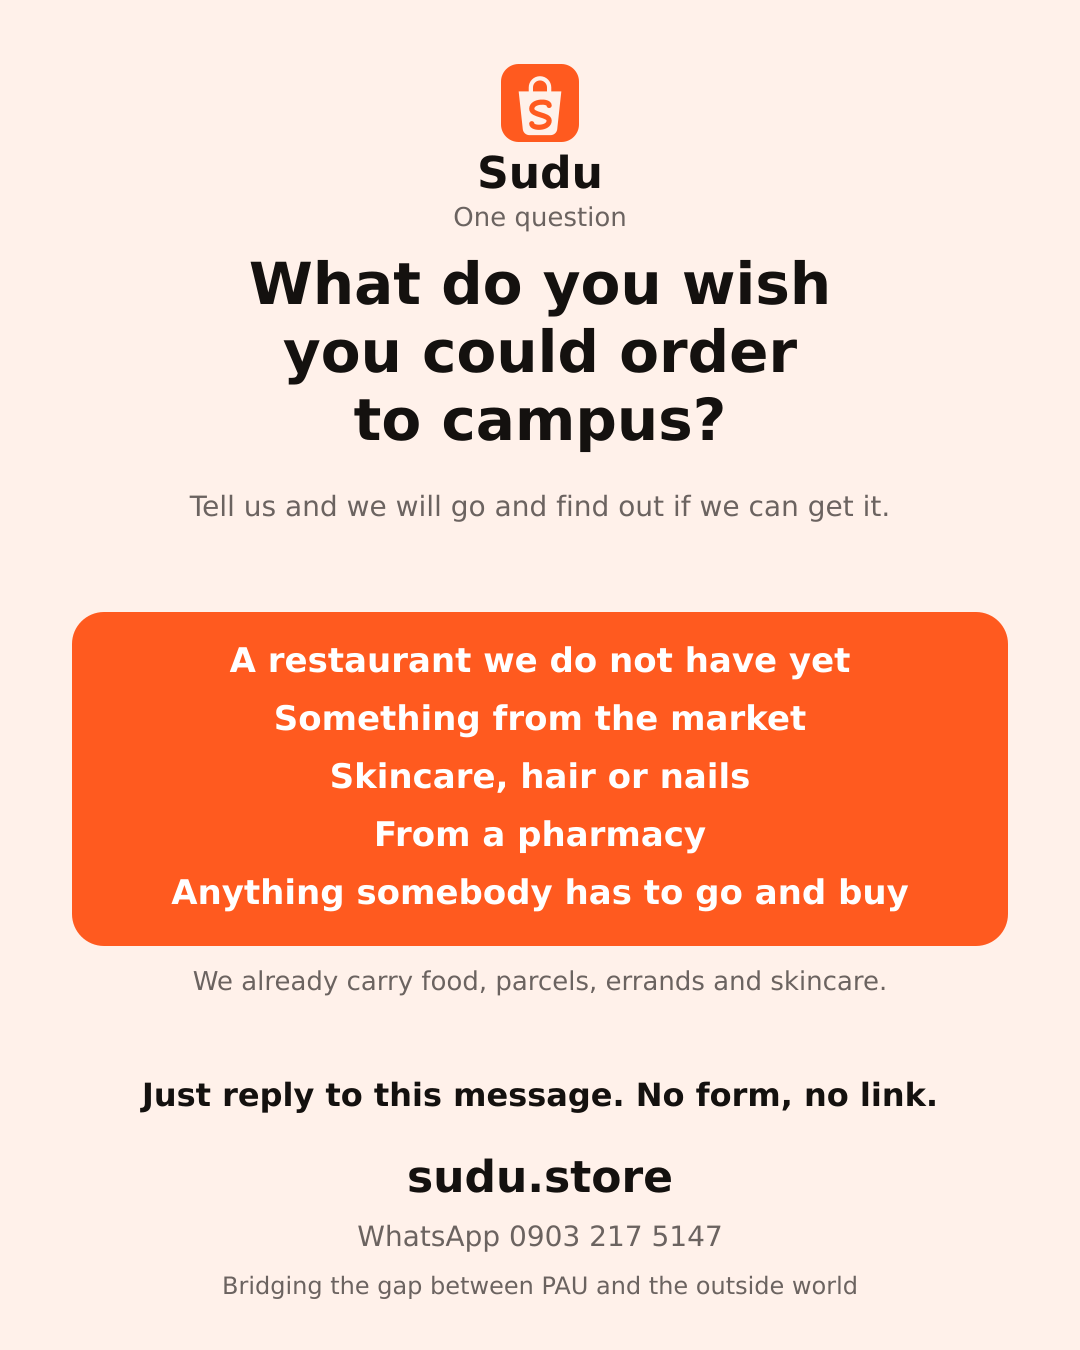
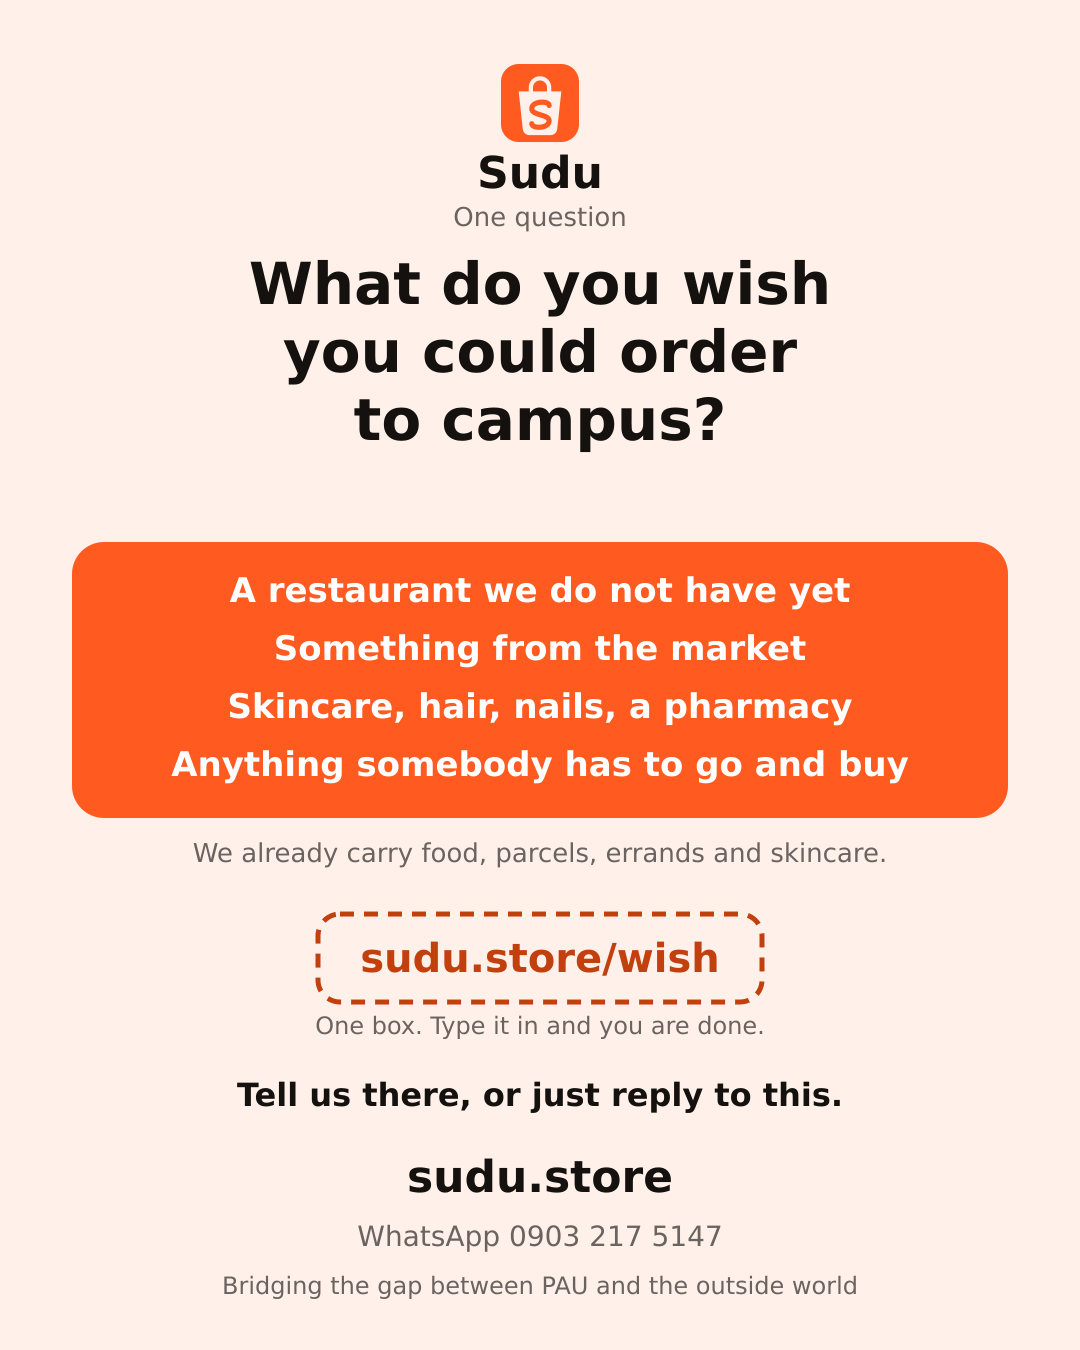
One box: what do you wish you could order?
There is already a page for asking us to go and find something, and it
wants a budget, a name, a number, a block and a note, because by then
somebody has decided to buy and we have to be able to quote them. This is
the other end of that: a question put to somebody who has decided
nothing, off a status they scrolled past. Every field after the first is
a reason to close the tab, so there is one, and the number under it says
plainly it can be left empty.

The card carries the address now rather than "reply to this". A reply
works in a chat and not on a status: a status reply goes to whoever
posted it, so with promoters carrying this every answer would land in
twelve inboxes and none of them ours. It still says reply as well, for
the ones we send ourselves.

Admin keeps them whole rather than tidying them into categories nobody
agreed on, because the number worth reading is how many said the same
thing. Where it came from is taken from the cookie, so a promoter's
status is a channel we can count.

Claude-Session: https://claude.ai/code/session_01A62TtZ3majrmppVL3Tnmwq

Changed region(s): [[0.0611, 0.3733, 0.9472, 0.84]]

diff --git a/app/wish/page.tsx b/app/wish/page.tsx
@@ -1,0 +1,118 @@
+import type { Metadata } from "next";
+import Link from "next/link";
+import { safeSettings, whatsappLink } from "@/lib/settings";
+import { wishAction } from "./actions";
+
+export const dynamic = "force-dynamic";
+
+export const metadata: Metadata = {
+  title: "What do you wish you could order?",
+  description:
+    "Tell us what you wish you could order to Pan-Atlantic University and we will go and find out if we can get it.",
+  alternates: { canonical: "/wish" },
+};
+
+/**
+ * One box.
+ *
+ * The custom order page asks for a budget, a name, a number, a block and a
+ * note, because by then somebody has decided to buy and we have to be able
+ * to quote them. This is the other end of that: a question put to somebody
+ * who has decided nothing, off a status they scrolled past. Every field
+ * after the first is a reason to close the tab, so there is one, and the
+ * number under it says plainly that it can be left empty.
+ */
+export default async function WishPage({
+  searchParams,
+}: {
+  searchParams: Promise<{ thanks?: string; problem?: string }>;
+}) {
+  const { thanks, problem } = await searchParams;
+  const settings = await safeSettings();
+
+  if (thanks) {
+    const again = whatsappLink(
+      settings.whatsapp_number,
+      "Hi Sudu, one more thing I wish I could order:"
+    );
+    return (
+      <div className="mx-auto max-w-md space-y-4 py-10 text-center">
+        <p className="text-5xl">🙌</p>
+        <h1 className="text-2xl font-extrabold tracking-tight">Got it, thank you.</h1>
+        <p className="text-ink/75">
+          If enough people ask for the same thing we go and get it, and it
+          turns up on the shop.
+        </p>
+        <div className="space-y-3 pt-2">
+          <Link href="/wish" className="btn-quiet block w-full">
+            Add another one
+          </Link>
+          <Link href="/" className="btn-primary block w-full">
+            See what we already carry
+          </Link>
+          {again ? (
+            <a href={again} className="block text-sm font-semibold text-brand">
+              Or tell us on WhatsApp
+            </a>
+          ) : null}
+        </div>
+      </div>
+    );
+  }
+
+  return (
+    <div className="mx-auto max-w-md space-y-4 py-8">
+      <header className="space-y-2">
+        <h1 className="text-2xl font-extrabold tracking-tight">
+          What do you wish you could order to campus?
+        </h1>
+        <p className="text-ink/75">
+          Anything. A restaurant we do not have yet, something from the
+          market, skincare, a pharmacy run, or a thing somebody has to go out
+          and buy. Tell us and we will find out if we can get it.
+        </p>
+      </header>
+
+      {problem ? (
+        <p className="card border-brand/30 bg-brand/5 font-semibold text-brand">{problem}</p>
+      ) : null}
+
+      <form action={wishAction} className="card space-y-4">
+        <div>
+          <label className="label" htmlFor="wanted">
+            What is it?
+          </label>
+          <textarea
+            id="wanted"
+            name="wanted"
+            rows={3}
+            required
+            autoFocus
+            className="field"
+            placeholder="Shawarma from Sangotedo at night"
+          />
+        </div>
+
+        <div>
+          <label className="label" htmlFor="phone">
+            Your number, if you want telling when we get it
+          </label>
+          <input
+            id="phone"
+            name="phone"
+            inputMode="tel"
+            className="field"
+            placeholder="Optional"
+          />
+        </div>
+
+        <button type="submit" className="btn-primary w-full">
+          Send it
+        </button>
+        <p className="text-center text-xs text-muted">
+          No account, nothing to sign up for. One box and you are done.
+        </p>
+      </form>
+    </div>
+  );
+}

diff --git a/app/admin/wishes/page.tsx b/app/admin/wishes/page.tsx
@@ -1,0 +1,98 @@
+import PageHeader from "@/components/admin/PageHeader";
+import Stat from "@/components/admin/Stat";
+import ConfirmButton from "@/components/admin/ConfirmButton";
+import { whatsappTo } from "@/lib/messages";
+import { formatPhone } from "@/lib/phone";
+import { dayWord } from "@/lib/time";
+import { wishes } from "@/lib/wishes";
+import { removeWish } from "./actions";
+
+export const dynamic = "force-dynamic";
+
+/**
+ * What people said they wish they could order.
+ *
+ * Deliberately not the "Asked for" page. That one is somebody who has
+ * decided to buy, with a budget and a number, and every row of it is a
+ * quote waiting to be written. This is the opposite end: nobody is buying,
+ * most of it will never be stocked, and the value is in the repeats.
+ *
+ * So the one number worth reading is how many said the same thing, which
+ * is why the page leaves them whole rather than trying to tidy them into
+ * categories nobody agreed on.
+ */
+export default async function WishesPage() {
+  const all = await wishes();
+  const week = all.filter(
+    (one) => Date.now() - new Date(one.createdAt).getTime() < 7 * 86_400_000
+  );
+  const withNumbers = all.filter((one) => one.phone !== "");
+
+  return (
+    <div>
+      <PageHeader
+        title="Wishes"
+        detail="What people said they wish they could order. One box, no account: the cheapest market research there is."
+        backHref="/admin"
+        backLabel="Dashboard"
+      />
+
+      <div className="mb-4 grid grid-cols-2 gap-3 sm:grid-cols-4">
+        <Stat label="Wishes" value={all.length} />
+        <Stat label="This week" value={week.length} tone="good" />
+        <Stat label="Left a number" value={withNumbers.length} />
+        <Stat
+          label="From a link"
+          value={all.filter((one) => one.cameFrom !== "").length}
+        />
+      </div>
+
+      {all.length === 0 ? (
+        <p className="card text-muted">
+          Nothing yet. Send people to sudu.store/wish and they land here.
+        </p>
+      ) : (
+        <ul className="space-y-3">
+          {all.map((one) => (
+            <li key={one.id} className="card">
+              <p className="font-semibold">{one.wanted}</p>
+              <p className="mt-1 flex flex-wrap items-center gap-x-2 gap-y-1 text-sm text-muted">
+                <span>{dayWord(one.createdAt.slice(0, 10))}</span>
+                {one.cameFrom ? <span>· {one.cameFrom}</span> : null}
+                {one.phone ? <span>· {formatPhone(one.phone)}</span> : null}
+              </p>
+
+              <div className="mt-3 flex flex-wrap items-center gap-3">
+                {/* They left a number because they want telling when we
+                  * get it, so the message to send is already written. */}
+                {one.phone ? (
+                  <a
+                    className="text-sm font-semibold text-brand underline"
+                    href={whatsappTo(
+                      one.phone,
+                      `Hi, you asked us about ${one.wanted}. We can get it now.`
+                    )}
+                    target="_blank"
+                    rel="noopener noreferrer"
+                  >
+                    Tell them we have it
+                  </a>
+                ) : null}
+                <form action={removeWish}>
+                  <input type="hidden" name="id" value={one.id} />
+                  <ConfirmButton
+                    tone="bare"
+                    className="text-sm font-semibold text-muted underline"
+                    confirm="Sure? Delete it"
+                  >
+                    Delete
+                  </ConfirmButton>
+                </form>
+              </div>
+            </li>
+          ))}
+        </ul>
+      )}
+    </div>
+  );
+}

diff --git a/lib/wishes.ts b/lib/wishes.ts
@@ -1,0 +1,63 @@
+import { db } from "./supabase";
+import { normalisePhone } from "./phone";
+
+/**
+ * What somebody wishes they could order.
+ *
+ * Not a request: nobody is buying anything and nothing has to be quoted.
+ * It is the cheapest market research there is, which is why the page that
+ * takes it asks for one sentence and nothing else. The custom order page
+ * is the other end of the same idea, for somebody who has already decided.
+ */
+export type Wish = {
+  id: string;
+  wanted: string;
+  phone: string;
+  cameFrom: string;
+  createdAt: string;
+};
+
+export type Wished = { ok: true } | { ok: false; error: string };
+
+export async function wishFor(input: {
+  wanted: string;
+  phone?: string;
+  cameFrom?: string;
+}): Promise<Wished> {
+  const wanted = input.wanted.trim();
+  // Enough to act on. "Food" is not something anybody can go and buy.
+  if (wanted.length < 3) {
+    return { ok: false, error: "Say what it is, in a few words." };
+  }
+
+  // A number is optional here, so a bad one is not worth stopping somebody
+  // over: we keep what can be dialled and drop what cannot.
+  const phone = normalisePhone(input.phone ?? "") ?? "";
+
+  const { error } = await db().from("wishes").insert({
+    wanted: wanted.slice(0, 300),
+    phone,
+    came_from: (input.cameFrom ?? "").slice(0, 60),
+  });
+  return error ? { ok: false, error: "Could not send that just now. Try again." } : { ok: true };
+}
+
+export async function wishes(): Promise<Wish[]> {
+  const { data } = await db()
+    .from("wishes")
+    .select("*")
+    .order("created_at", { ascending: false })
+    .limit(500);
+
+  return ((data ?? []) as Record<string, any>[]).map((row) => ({
+    id: row.id,
+    wanted: row.wanted ?? "",
+    phone: row.phone ?? "",
+    cameFrom: row.came_from ?? "",
+    createdAt: row.created_at,
+  }));
+}
+
+export async function forgetWish(id: string): Promise<void> {
+  await db().from("wishes").delete().eq("id", id);
+}

diff --git a/scripts/share-cards.ts b/scripts/share-cards.ts
@@ -193,16 +193,23 @@ const cards: Card[] = [
     key: "wishlist",
     kicker: "One question",
     head: ["What do you wish", "you could order", "to campus?"],
-    sub: "Tell us and we will go and find out if we can get it.",
     panel: [
       "A restaurant we do not have yet",
       "Something from the market",
-      "Skincare, hair or nails",
-      "From a pharmacy",
+      "Skincare, hair, nails, a pharmacy",
       "Anything somebody has to go and buy",
     ],
     note: "We already carry food, parcels, errands and skincare.",
-    ask: "Just reply to this message. No form, no link.",
+    /*
+     * An address rather than "reply to this".
+     *
+     * A reply works in a chat and not on a status: a status reply goes to
+     * whoever posted it, so with promoters carrying this, every answer
+     * would land in twelve different inboxes and none of them ours.
+     */
+    code: "sudu.store/wish",
+    codeNote: "One box. Type it in and you are done.",
+    ask: "Tell us there, or just reply to this.",
   },
   {
     key: "promoters",
@@ -338,12 +345,15 @@ async function card(one: Card): Promise<void> {
 
   if (one.code) {
     const top = panelTop + panelHeight + (one.note ? 76 : 0) + 20;
-    const wide = 440;
+    // Wide enough for the longest thing we put in it, and the words
+    // shrink rather than the box growing into the footer.
+    const size = one.code.length > 10 ? 40 : 50;
+    const wide = Math.max(440, one.code.length * size * 0.62 + 72);
     parts.push(
       `<rect x="${(W - wide) / 2}" y="${top}" width="${wide}" height="88" rx="22" ` +
         `fill="none" stroke="${DEEP}" stroke-width="5" stroke-dasharray="14 10"/>`
     );
-    parts.push(text(top + 60, one.code, 50, "800", DEEP));
+    parts.push(text(top + 58, one.code, size, "800", DEEP));
     if (one.codeNote) {
       parts.push(text(top + 88 + 32, one.codeNote, 24, "normal", MUTED));
     }

diff --git a/app/wish/actions.ts b/app/wish/actions.ts
@@ -1,0 +1,22 @@
+"use server";
+
+import { cookies } from "next/headers";
+import { redirect } from "next/navigation";
+import { FROM_COOKIE } from "@/lib/came-from";
+import { wishFor } from "@/lib/wishes";
+
+/**
+ * One box, one button.
+ *
+ * Where they came from is read from the cookie rather than asked, because
+ * the whole point of this page is that it asks for one thing.
+ */
+export async function wishAction(form: FormData): Promise<void> {
+  const wanted = String(form.get("wanted") ?? "");
+  const phone = String(form.get("phone") ?? "");
+  const cameFrom = (await cookies()).get(FROM_COOKIE)?.value ?? "";
+
+  const done = await wishFor({ wanted, phone, cameFrom });
+  if (!done.ok) redirect(`/wish?problem=${encodeURIComponent(done.error)}`);
+  redirect("/wish?thanks=1");
+}

diff --git a/components/admin/Shell.tsx b/components/admin/Shell.tsx
@@ -20,6 +20,7 @@ const NAV = [
   { href: "/admin/skincare", label: "Skincare", icon: "✿" },
   { href: "/admin/parcels", label: "Parcels", icon: "▣" },
   { href: "/admin/requests", label: "Asked for", icon: "?" },
+  { href: "/admin/wishes", label: "Wishes", icon: "✧" },
   { href: "/admin/money", label: "Other money", icon: "₦" },
   { href: "/admin/profit", label: "Profit", icon: "↗" },
   { href: "/admin/home", label: "Home page", icon: "▣" },

diff --git a/app/admin/wishes/actions.ts b/app/admin/wishes/actions.ts
@@ -1,0 +1,9 @@
+"use server";
+
+import { revalidatePath } from "next/cache";
+import { forgetWish } from "@/lib/wishes";
+
+export async function removeWish(form: FormData): Promise<void> {
+  await forgetWish(String(form.get("id") ?? ""));
+  revalidatePath("/admin/wishes");
+}
